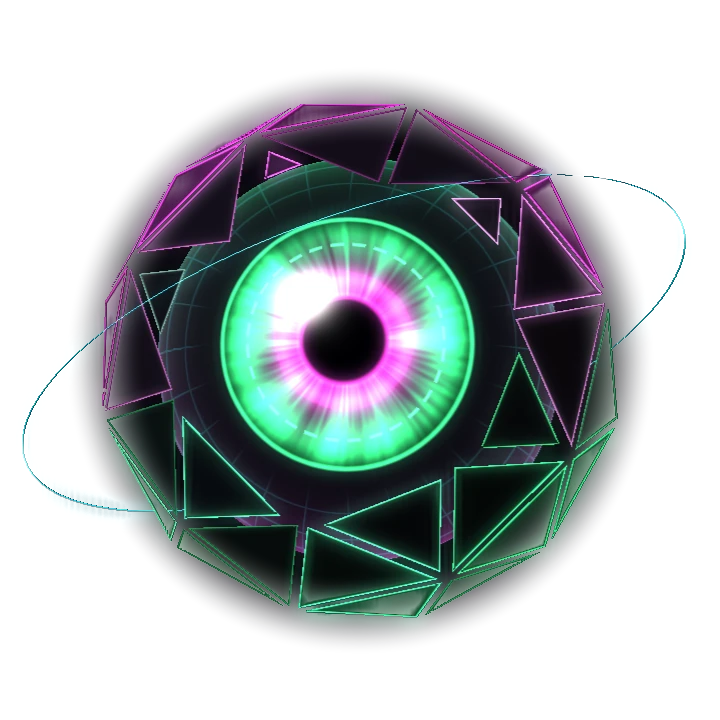
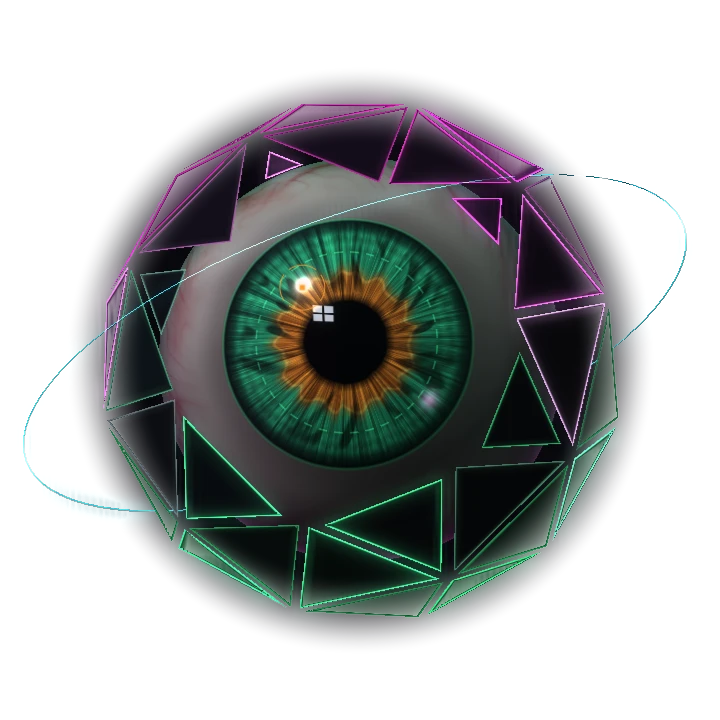
Eye: more realistic eyeball inside the neon shell
- wet sclera with uneven tone, branching veins toward the periphery and
  shadow under the shell panels
- iris with radial fibers, furrows, crypts, a jagged collarette, golden
  central heterochromia blending into green, dark limbal ring and pupil ruff
- the iris sits under the cornea: view-dependent parallax as the eye turns
- cornea reflections: sharp key glint, a window catchlight with frame bars,
  neon environment tint and rim; bloom threshold raised so the sclera
  does not bloom
- fallback image re-rendered from the new eye

Still 60 fps on Intel UHD at Medium and at High with bloom.

diff --git a/src/gl/bloom.ts b/src/gl/bloom.ts
@@ -76,7 +76,7 @@ export class Bloom {
     r.clear()
     r.render(scene, camera)
     this.quad.material = this.blur
-    this.pass(r, this.rtScene.texture, this.rtA, 1, 0, 0.6)
+    this.pass(r, this.rtScene.texture, this.rtA, 1, 0, 0.7)
     this.pass(r, this.rtA.texture, this.rtB, 0, 1)
     this.pass(r, this.rtB.texture, this.rtA, 2.2, 0)
     this.pass(r, this.rtA.texture, this.rtB, 0, 2.2)
